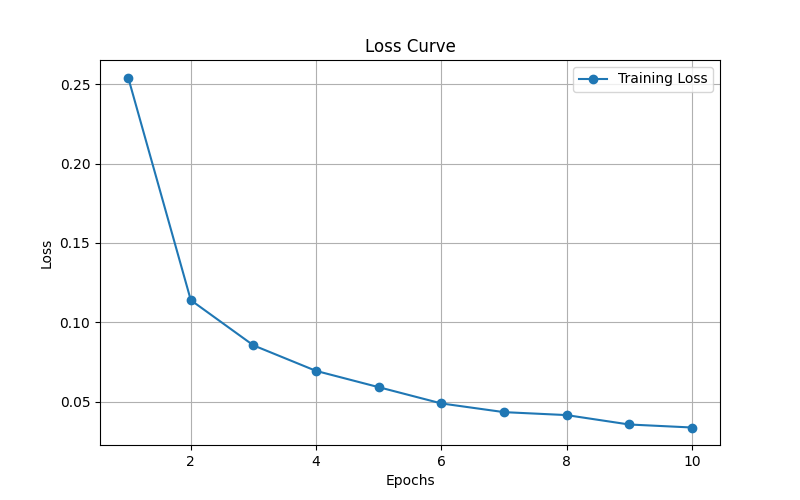
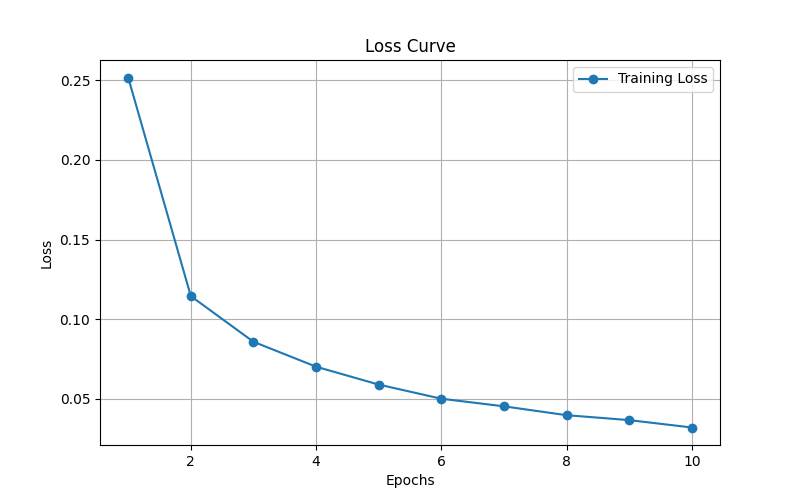
implement ReduceLROnPlateau scheduler, verified working

Changed region(s): [[0.0625, 0.3, 0.9062, 0.72], [0.0625, 0.72, 0.9062, 0.87], [0.0625, 0.15, 0.7188, 0.18]]

diff --git a/nn/optimizers.py b/nn/optimizers.py
@@ -72,3 +72,22 @@ class Adam:
 
                 layer.gamma = layer.gamma - self.lr * m_gamma / (np.sqrt(v_gamma) + self.epsilon)
                 layer.beta = layer.beta - self.lr * m_beta / (np.sqrt(v_beta) + self.epsilon)
+
+class ReduceLROnPlateau:
+    def __init__(self, optimizer, factor=0.5, patience=3, min_lr=1e-6):
+        self.optimizer = optimizer
+        self.factor = factor
+        self.patience = patience
+        self.min_lr = min_lr
+        self.best_loss = float('inf')
+        self.counter = 0
+
+    def step(self, loss):
+        if loss < self.best_loss:
+            self.counter = 0
+            self.best_loss = loss
+        else:
+            self.counter += 1
+        if self.counter >= self.patience:
+            self.optimizer.lr = max(self.optimizer.lr * self.factor, self.min_lr) 
+            self.counter = 0

diff --git a/train.py b/train.py
@@ -2,7 +2,7 @@ from data.loader import load_mnist
 from nn.layers import Linear, BatchNorm
 from nn.activations import ReLU
 from nn.losses import CrossEntropyLoss
-from nn.optimizers import Adam
+from nn.optimizers import Adam, ReduceLROnPlateau
 from nn.model import Sequential
 from nn.save_load import save_model
 
@@ -25,6 +25,7 @@ model = Sequential([
 
 loss_fn = CrossEntropyLoss()
 optimizer = Adam(learning_rate=0.001)
+scheduler = ReduceLROnPlateau(optimizer, factor=0.5, patience=3)
 
 # training loop
 epochs = 10
@@ -64,6 +65,8 @@ for epoch in range(epochs):
     loss_history.append(total_loss / num_batches)
 
     print(f"Epoch {epoch+1}/{epochs} - Loss: {total_loss/num_batches:.4f}")
+
+    scheduler.step(total_loss / num_batches)
 
 epoch_range = range(1, len(loss_history) + 1)
 

diff --git a/README.md b/README.md
@@ -3,21 +3,15 @@
 Building a deep learning framework using only NumPy, no PyTorch or TensorFlow.
 
 ## Implemented
-- `nn/layers.py` — Linear, Conv2D, MaxPool2D, Flatten
+- `nn/layers.py` — Linear, Conv2D, MaxPool2D, Flatten, BatchNorm, Dropout
 - `nn/activations.py` — ReLU
 - `nn/losses.py` — CrossEntropyLoss
-- `nn/optimizers.py` — SGD, Adam
-- `nn/model.py` — Sequential
-- `data/loader.py` — MNIST loader via Keras
+- `nn/optimizers.py` — SGD, Adam, ReduceLROnPlateau
+- `nn/model.py` — Sequential (train/eval mode)
 - `nn/save_load.py` — save/load model weights
 - `data/loader.py` — MNIST loader via Keras
-- `train.py` — MLP training, 97.82% test accuracy
-- `train_cnn.py` — CNN training, 99.14% test accuracy, loss curve
-- `predict.py` — load saved model and run predictions
-- `grad_check.py` — numerical gradient check, Linear 8.88e-12, Conv2D 2.24e-11
-
-- MLP (784 → 128 → 64 → 10) — 97.82% test accuracy on MNIST
-- CNN (Conv2D → MaxPool2D → Conv2D → MaxPool2D → Flatten → Linear) — 99.14% test accuracy on MNIST
-
-## Next
-- LR scheduler
+- `train.py` — MLP training, 98.12% test accuracy
+- `train_cnn.py` — CNN training, 99.14% test accuracy
+- `predict.py` — CNN inference
+- `predict_mlp.py` — MLP inference
+- `grad_check.py` — gradient verification, Linear 8.88e-12, Conv2D 2.24e-11
